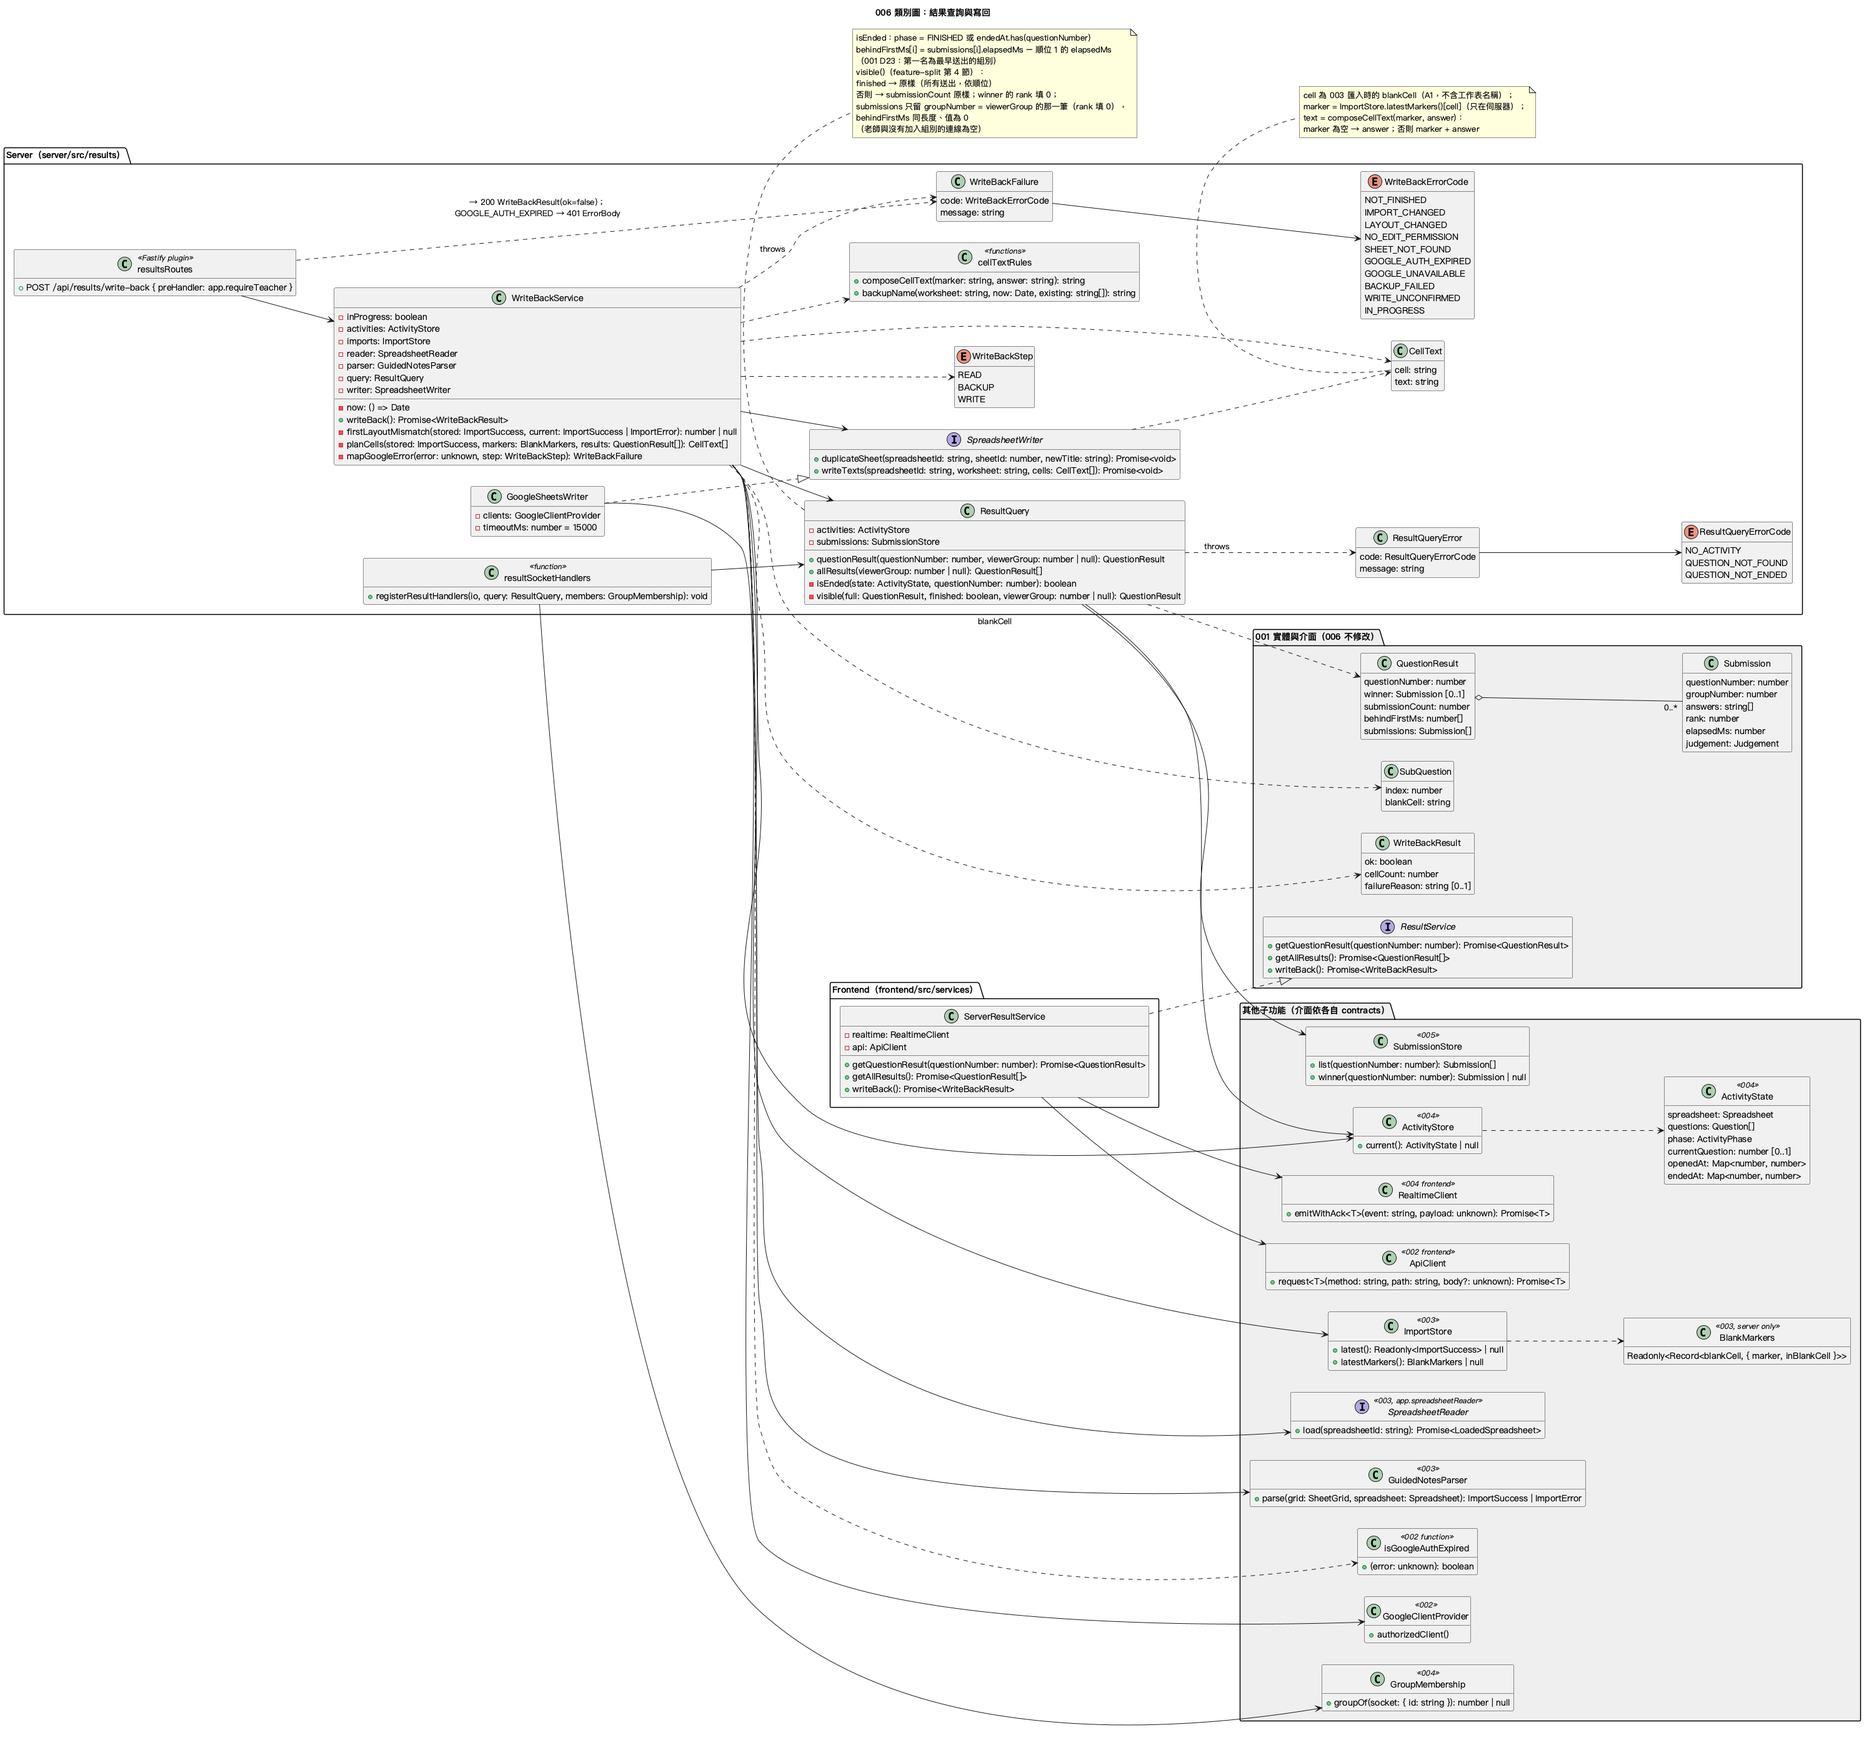
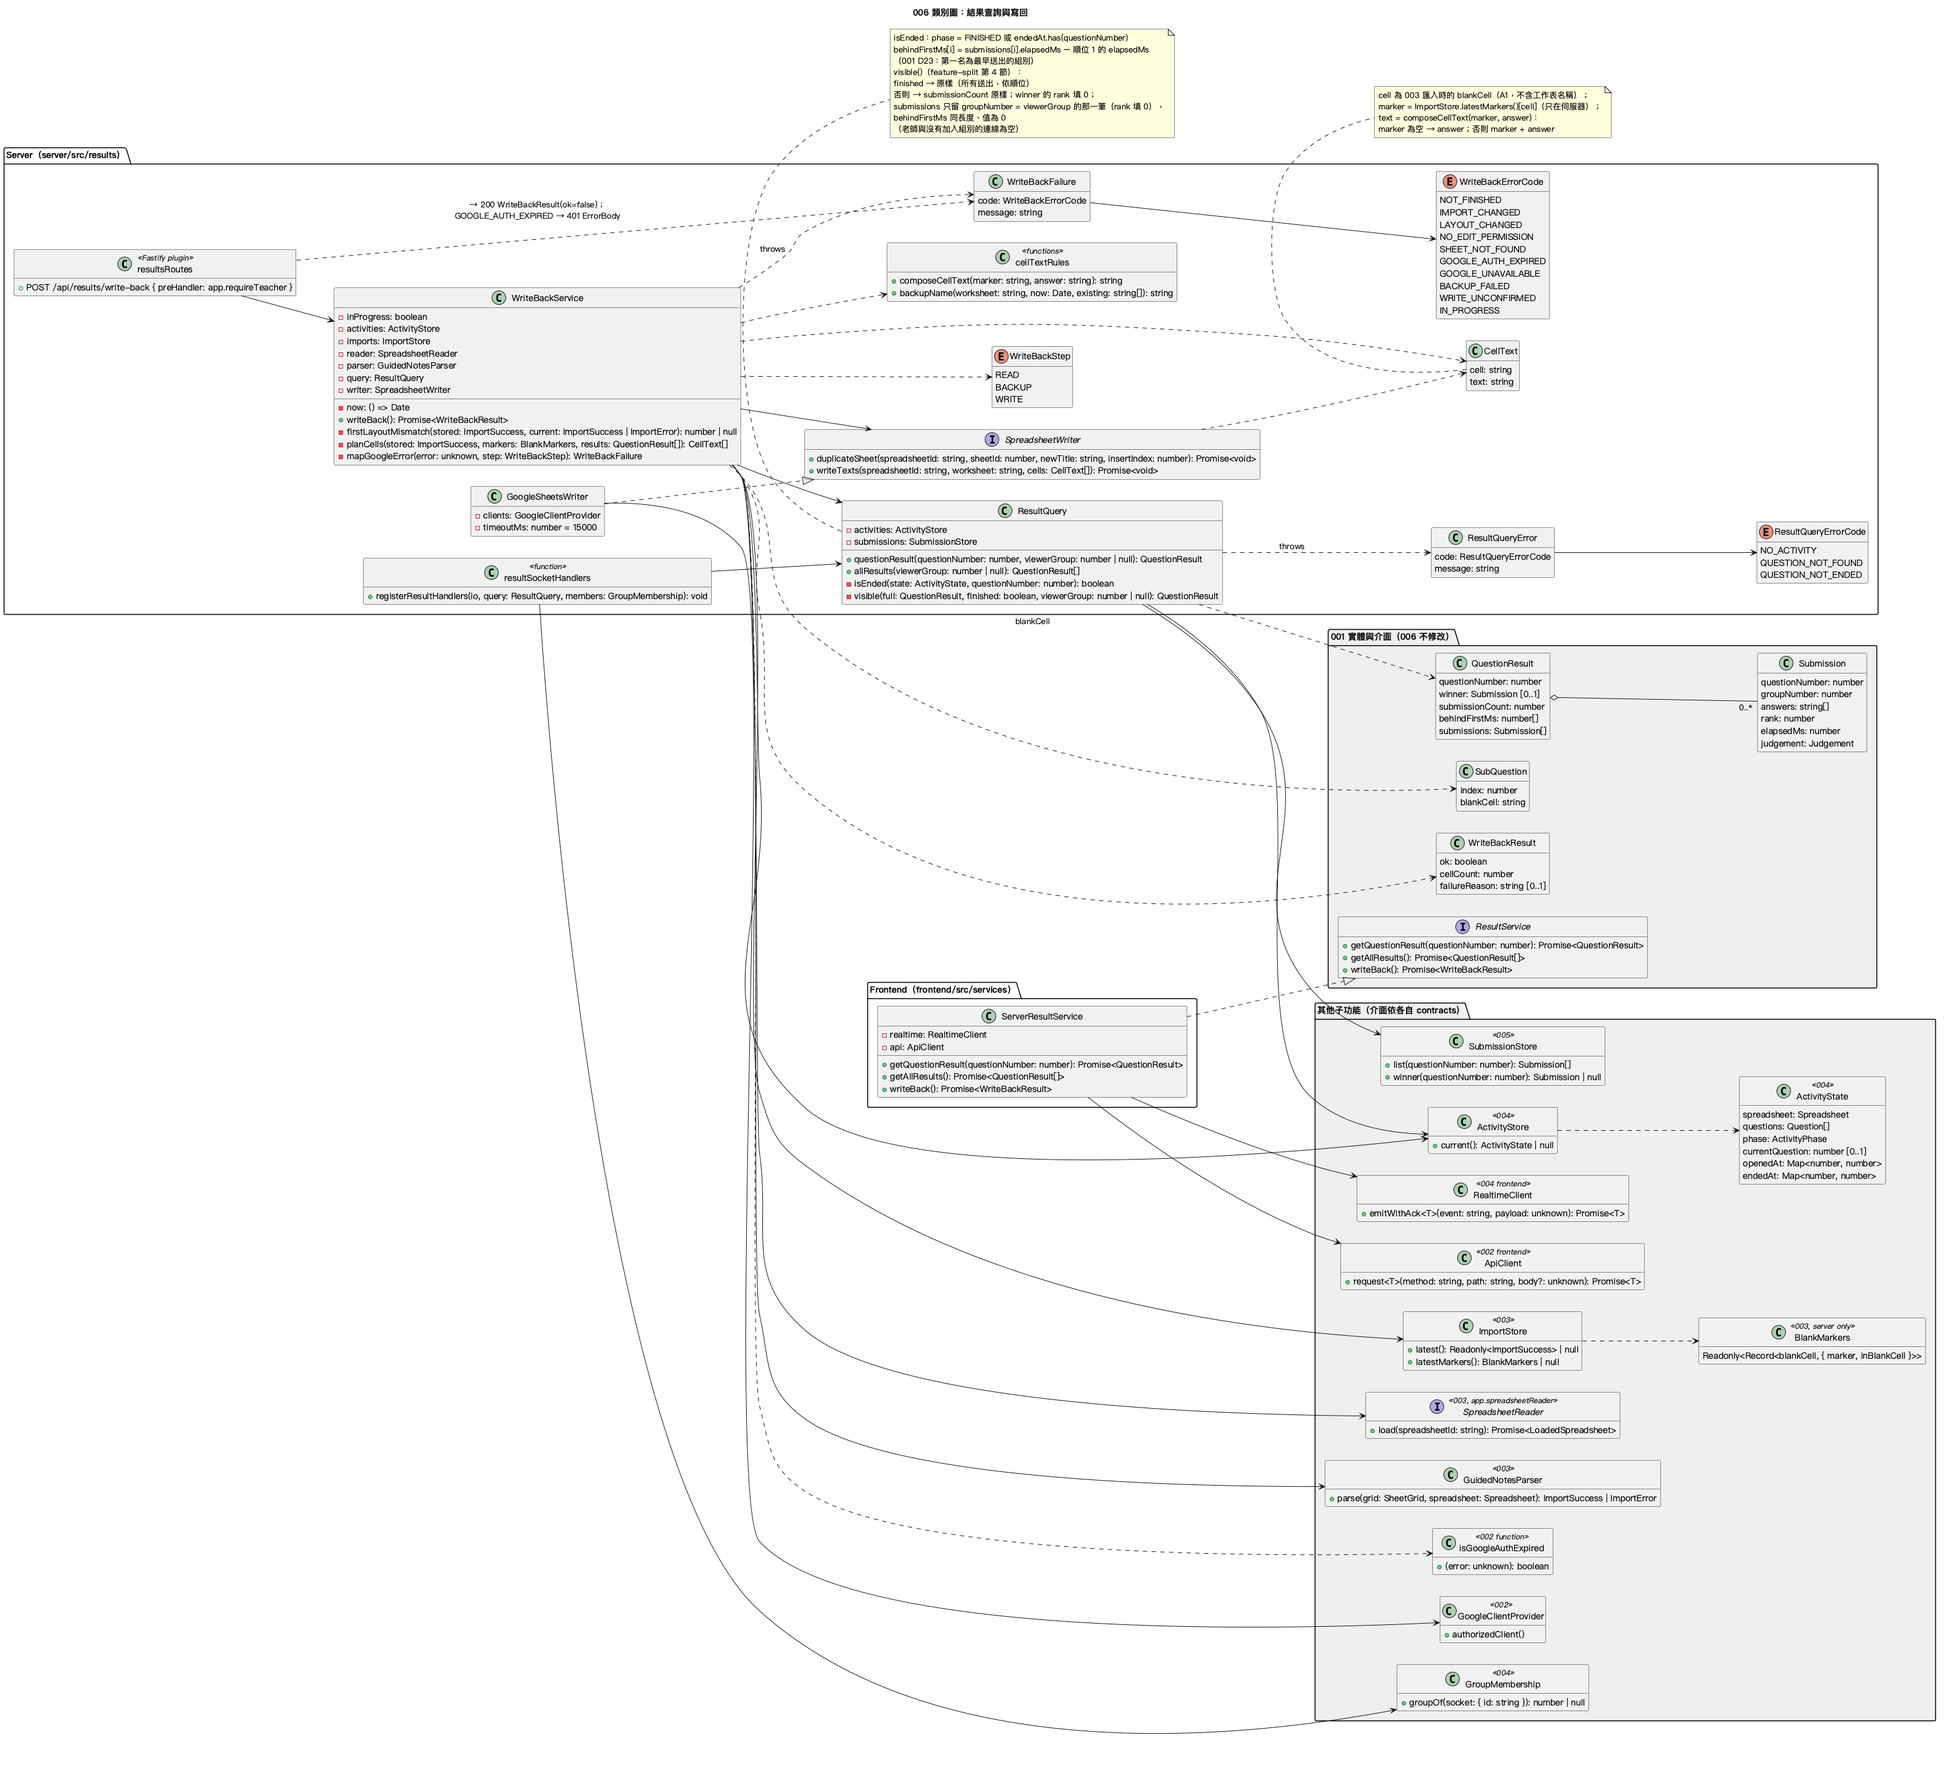
spec(006): 備份工作表放在學習單後面
Google 預設把複本放在第一個工作表，老師下次匯入同一份試算表時，003 依
REQ-IMP-03 會預設選到備份，之後寫回就寫進備份而不是學習單。

Refs: REQ-RES-13, AC-12, #33

diff --git a/specs/006-results-export/spec.md b/specs/006-results-export/spec.md
@@ -76,6 +76,7 @@
 
 - Q: AC-02 要學生本題結果頁顯示本組送出的判定、AC-07 要學生全部結果頁醒目標示本組，但 001 FR-057、FR-058 的頁面沒有這兩項，要改哪一邊？ → A: 改 006 配合 001（使用者 2026-11-28 決定）。006 只負責回傳的資料：本題結果中本組的送出仍帶判定，全部結果仍有每一筆送出的組別，頁面怎麼顯示依 001（本題結果頁顯示本組送出的答案；全部結果頁不另外標示本組）。取代 Session 2026-11-21 公布範圍回答中「學生頁面把本組醒目標示」。
 - Q: 題組範本的標記在 G 欄、作答在 H 欄時，寫回寫哪一格、要不要加標記？（#34） → A: 寫在 003 匯入的填空格（H 欄），只寫答案；標記在填空格內時維持「標記＋答案」（REQ-RES-08）。
+- Q: 備份工作表要放在試算表的哪個位置？ → A: 緊接在學習單工作表後面（#33）。Google 預設把複本放在第一個位置，老師下次匯入同一份試算表時，003 依 REQ-IMP-03 會預設選到備份而不是學習單。
 
 ## User Scenarios & Testing *(mandatory)*
 
@@ -127,7 +128,7 @@
 **Acceptance Scenarios**:
 
 1. **AC-11** **Given** 活動已結束, **When** 老師按「寫回 Google Sheets」, **Then** 確認視窗列出目標試算表、工作表、要寫入的格數與題數，說明文字為「這些填空格原本的內容會被覆蓋。」
-2. **AC-12** **Given** 寫回確認視窗開啟、學習單可以編輯, **When** 老師按「寫回」, **Then** 系統先在同一份試算表建立名為「原名-備份-YYYYMMDD-HHmm」的工作表，內容、格式與寫回前的學習單相同，再寫入每一題成功組別的答案；結果頁顯示寫回成功與寫入的格數。
+2. **AC-12** **Given** 寫回確認視窗開啟、學習單可以編輯, **When** 老師按「寫回」, **Then** 系統先在同一份試算表建立名為「原名-備份-YYYYMMDD-HHmm」的工作表，位置緊接在學習單工作表後面，內容、格式與寫回前的學習單相同，再寫入每一題成功組別的答案；結果頁顯示寫回成功與寫入的格數。
 3. **AC-13** **Given** 題組小題的填空格原有「（1）」標記，成功組別的答案為「CPU」, **When** 寫回, **Then** 該填空格內容為「（1）CPU」。
    - **AC-13a** **Given** 題組範本（G5 只有「（1）」，003 匯入的填空格是 H5），成功組別的答案為「CPU」, **When** 寫回, **Then** H5 為「CPU」，G5 仍是「（1）」。
 4. **AC-14** **Given** 某一題沒有成功組別，該題填空格有內容, **When** 寫回, **Then** 該題的填空格保持寫回前的內容。
@@ -197,7 +198,7 @@
 - **REQ-RES-10**（R5.1；原則 IV）：寫回 MUST 只寫入 003 匯入時解析出的填空格位置，不得依固定的儲存格位置寫入；填空格以外的儲存格內容、格式與合併範圍 MUST NOT 改變。
 - **REQ-RES-11**（原則 VII）：答案 MUST 以純文字寫入，不得被試算表當成公式。
 - **REQ-RES-12**（原則 IV、VII）：寫回前，系統 MUST 以與匯入相同的規則重新讀取並解析工作表（不改變伺服器記住的匯入結果），確認每一題的題號與每個填空格的位置都與匯入時一致；任何一題不一致時 MUST 拒絕整個寫回，指出第一個不一致的題號，不建立備份、不寫入。
-- **REQ-RES-13**（2026-11-21 決定）：版面檢查通過後、寫入前，系統 MUST 在同一份試算表複製學習單工作表作為備份，名稱為「原名-備份-YYYYMMDD-HHmm」（伺服器本機時間）；名稱已存在時依序加上「-2」「-3」。備份失敗時 MUST 不寫入。
+- **REQ-RES-13**（2026-11-21 決定）：版面檢查通過後、寫入前，系統 MUST 在同一份試算表複製學習單工作表作為備份，放在學習單工作表的下一個位置（之後匯入同一份試算表時，003 仍預設選到學習單），名稱為「原名-備份-YYYYMMDD-HHmm」（伺服器本機時間）；名稱已存在時依序加上「-2」「-3」。備份失敗時 MUST 不寫入。
 - **REQ-RES-14**（001 D20）：所有填空格 MUST 以一次批次寫入。任何一步失敗時 MUST NOT 寫入任何填空格，並回傳「寫回失敗原因」表中的原因；原因 MUST 說明沒有寫入任何格子與解決方式。兩種情況例外：寫入要求已送出但沒有在時限內得到回應時，原因改為說明無法確認、不會只寫一部分、可以再寫回一次；寫回進行中時，這次要求本身不讀取也不寫入，原因只說明寫回進行中。
 - **REQ-RES-15**（R5；原則 VI）：只有老師 MUST 能寫回；伺服器以 002 的老師憑證驗證，驗證失敗時拒絕，不讀取也不改動試算表。
 - **REQ-RES-16**（001 D9）：活動還沒結束、或目前沒有活動時，系統 MUST 拒絕寫回。

diff --git a/specs/006-results-export/data-model.md b/specs/006-results-export/data-model.md
@@ -82,7 +82,7 @@
 3. `stored = imports.latest()`、`markers = imports.latestMarkers()`；`stored` 為 `null`，或 `stored.spreadsheet.id`、`stored.spreadsheet.selectedWorksheet` 與 `state.spreadsheet` 不同 → `IMPORT_CHANGED`。
 4. `cells = planCells(stored, markers, query.allResults(null))`；為空 → 回 `{ ok: true, cellCount: 0 }`，不讀取、不備份、不寫入。
 5. `loaded = reader.load(id)`（錯誤 → `mapGoogleError(·, READ)`）；`grid` 為 `loaded.sheets` 中名稱等於 `selectedWorksheet` 的一個，沒有 → `SHEET_NOT_FOUND`；`loaded.editable === false` → `NO_EDIT_PERMISSION`；`current = parser.parse(grid, stored.spreadsheet)`；`firstLayoutMismatch(stored, current)` 有題號 → `LAYOUT_CHANGED`。
-6. `writer.duplicateSheet(id, grid.sheetId, backupName(selectedWorksheet, now(), loaded.sheets.map(s => s.name)))`（錯誤 → `BACKUP`）。
+6. `writer.duplicateSheet(id, grid.sheetId, backupName(selectedWorksheet, now(), loaded.sheets.map(s => s.name)), loaded.sheets.indexOf(grid) + 1)`（錯誤 → `BACKUP`）。003 的 `GoogleSheetsReader` 依 Google 的工作表順序排列 `loaded.sheets`，所以 `indexOf(grid) + 1` 是學習單的下一個位置。
 7. `writer.writeTexts(id, selectedWorksheet, cells)`（錯誤 → `WRITE`）。
 8. 回 `{ ok: true, cellCount: cells.length }`。
 
@@ -127,7 +127,7 @@
 
 | 方法 | `GoogleSheetsWriter` 的做法 |
 | --- | --- |
-| `duplicateSheet(spreadsheetId, sheetId, newTitle): Promise<void>` | `spreadsheets.batchUpdate` 一個 `duplicateSheet` 請求（`sourceSheetId: sheetId`、`newSheetName: newTitle`） |
+| `duplicateSheet(spreadsheetId, sheetId, newTitle, insertIndex): Promise<void>` | `spreadsheets.batchUpdate` 一個 `duplicateSheet` 請求（`sourceSheetId: sheetId`、`newSheetName: newTitle`、`insertSheetIndex: insertIndex`） |
 | `writeTexts(spreadsheetId, worksheet, cells): Promise<void>` | 一次 `spreadsheets.values.batchUpdate`，`valueInputOption: 'RAW'`，`data` 每格一個 `{ range: "'<worksheet>'!<cell>", values: [[text]] }`；工作表名稱中的 `'` 改為 `''` |
 
 `GoogleSheetsWriter` 用 `@googleapis/sheets`；`clients` 為 002 的 `app.googleClients`（`GoogleClientProvider`），每次呼叫前取 `authorizedClient()`；所有請求 `timeout: 15000`。錯誤原樣丟出，由 `WriteBackService.mapGoogleError` 對應。

diff --git a/specs/006-results-export/quickstart.md b/specs/006-results-export/quickstart.md
@@ -35,7 +35,7 @@ npm run test:e2e -w frontend -- results
 | 4 | 活動結束後看學生分頁 | 每題所有送出的順位、組別、答案與判定，以及本組搶到的題數 | AC-07 |
 | 5 | 活動結束後看老師結果頁 | 每題成功組別、送出組數、每題所有送出的順位與判定、比第一名（最早送出的組別）慢的秒數、各組搶到的題數 | AC-08、AC-30 |
 | 6 | 先在試算表第 2 題的填空格手動打字，再按「寫回 Google Sheets」 | 確認視窗文字為「這些填空格原本的內容會被覆蓋。」，沒有提到備份 | AC-11 |
-| 7 | 按「寫回」，打開試算表（寫回預覽只顯示答案，不含小題標記） | 多一個「原名-備份-YYYYMMDD-HHmm」工作表，內容與寫回前相同；第 1、2 題填空格為成功答案，`=1+1` 顯示為文字；第 3、4 題填空格不變；題組範本的答案寫在 H 欄（只有答案），G 欄的「（1）」等標記不變 | AC-12～AC-16、SC-001、SC-008 |
+| 7 | 按「寫回」，打開試算表（寫回預覽只顯示答案，不含小題標記） | 多一個「原名-備份-YYYYMMDD-HHmm」工作表，緊接在學習單後面，內容與寫回前相同；再到挑選學習單頁選同一份試算表，匯入確認頁預設選的是學習單，不是備份；第 1、2 題填空格為成功答案，`=1+1` 顯示為文字；第 3、4 題填空格不變；題組範本的答案寫在 H 欄（只有答案），G 欄的「（1）」等標記不變 | AC-12～AC-16、SC-001、SC-008 |
 | 8 | 用版本記錄比對寫回前後 | 只有第 1、2 題的填空格不同 | AC-15、SC-002 |
 | 9 | 同一分鐘內再寫回一次 | 新備份名稱加「-2」；填空格內容與上一次相同 | AC-17、AC-19 |
 | 10 | 在試算表第 2 題上方插入一列後寫回 | 失敗，指出第 2 題；沒有新增備份、沒有格子被改 | AC-21、SC-007 |

diff --git a/specs/006-results-export/research.md b/specs/006-results-export/research.md
@@ -43,8 +43,8 @@
 
 ## RD-05 備份工作表
 
-- **Decision**: 版面檢查通過後，`SpreadsheetWriter.duplicateSheet(spreadsheetId, sheetId, newTitle)` 以 `spreadsheets.batchUpdate` 的 `duplicateSheet` 請求複製學習單工作表（`sourceSheetId` 為 RD-04 那次 `load` 的 `SheetGrid.sheetId`）。名稱由純函式 `backupName(worksheet, now, existing)` 產生：`${worksheet}-備份-YYYYMMDD-HHmm`（伺服器本機時間），已存在時依序加 `-2`、`-3`。`existing` 是同一次 `load` 的所有工作表名稱。
-- **Rationale**: `duplicateSheet` 連同格式與合併範圍一起複製（SC-008）；放在同一份試算表，`drive.file` 範圍就夠，不會在老師的雲端硬碟多出檔案。
+- **Decision**: 版面檢查通過後，`SpreadsheetWriter.duplicateSheet(spreadsheetId, sheetId, newTitle, insertIndex)` 以 `spreadsheets.batchUpdate` 的 `duplicateSheet` 請求複製學習單工作表（`sourceSheetId` 為 RD-04 那次 `load` 的 `SheetGrid.sheetId`；`insertSheetIndex` 為學習單在同一次 `load` 的位置 + 1，讓備份緊接在學習單後面）。名稱由純函式 `backupName(worksheet, now, existing)` 產生：`${worksheet}-備份-YYYYMMDD-HHmm`（伺服器本機時間），已存在時依序加 `-2`、`-3`。`existing` 是同一次 `load` 的所有工作表名稱。
+- **Rationale**: `duplicateSheet` 連同格式與合併範圍一起複製（SC-008）；放在同一份試算表，`drive.file` 範圍就夠，不會在老師的雲端硬碟多出檔案。不指定 `insertSheetIndex` 時 Google 把複本放在第一個位置，003 匯入時會預設選到備份（#33），所以一定要指定。
 - **Alternatives considered**: 複製整份試算表（多一個檔案）；把寫回前的值存在伺服器（伺服器重啟就消失，老師在 Google 上看不到）。
 
 ## RD-06 一次批次、純文字寫入

diff --git a/specs/006-results-export/tasks.md b/specs/006-results-export/tasks.md
@@ -148,6 +148,16 @@ description: "Task list for 006 結果與寫回"
 
 ---
 
+## Fix: 備份工作表放在學習單後面（#33）
+
+**Goal**: 寫回建立的備份工作表緊接在學習單後面，老師之後匯入同一份試算表時，003 仍預設選到學習單（AC-12、REQ-RES-13）
+
+- [ ] T037 [P] 測試：`server/tests/unit/results/GoogleSheetsWriter.test.ts` 的 `duplicateSheet` 請求帶 `insertSheetIndex`；`server/tests/unit/results/WriteBackService.success.test.ts` 傳給 `duplicateSheet` 的 `insertIndex` 是學習單在 `loaded.sheets` 的位置 + 1（學習單不在第一個工作表時也對）；`FakeSpreadsheetWriter` 記錄 `insertIndex`
+- [ ] T038 `SpreadsheetWriter.duplicateSheet` 加上 `insertIndex`，`GoogleSheetsWriter` 送出 `insertSheetIndex`，`WriteBackService` 傳入 `loaded.sheets.indexOf(grid) + 1`，依 T037 與 data-model 第 4 節
+- [ ] T039 人工驗證 quickstart #7：寫回後備份緊接在學習單後面，再匯入同一份試算表時預設選到學習單，記到 `manual-verification.md`
+
+---
+
 ## Fix: 標記在左邊另一格時只寫答案（#34）
 
 **Goal**: 依 003 的 `inBlankCell`，標記在填空格內時寫「標記＋答案」，在左邊另一格時只寫答案（REQ-RES-08、AC-13、AC-13a）。依 003 T051。
@@ -183,7 +193,7 @@ description: "Task list for 006 結果與寫回"
 | REQ-RES-10 | AC-15、SC-002、SC-003 | T017、T023、T033 |
 | REQ-RES-11 | AC-16 | T018、T022 |
 | REQ-RES-12 | AC-21 | T026、T023、T029 |
-| REQ-RES-13 | AC-12、AC-17、SC-008 | T016、T017、T026、T021、T022、T033 |
+| REQ-RES-13 | AC-12、AC-17、SC-008 | T016、T017、T026、T021、T022、T033、T037、T038、T039 |
 | REQ-RES-14 | AC-25、AC-26、SC-007 | T017、T018、T026、T029 |
 | REQ-RES-15 | AC-27 | T027、T024 |
 | REQ-RES-16 | AC-20 | T026、T029 |
